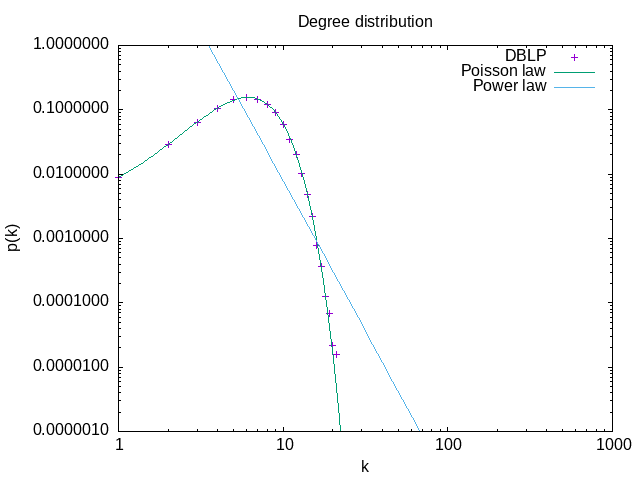
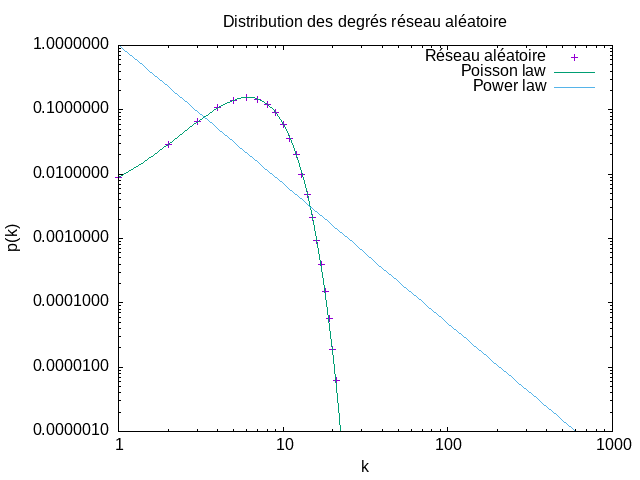
Corrections

Changed region(s): [[0.3438, 0.0312, 0.8125, 0.0625], [0.6562, 0.0938, 0.875, 0.125], [0.4688, 0.4375, 0.5, 0.4688]]

diff --git a/tp1_mesures/src/main/java/org/example/Mesures.java b/tp1_mesures/src/main/java/org/example/Mesures.java
@@ -1,6 +1,8 @@
 package org.example;
 
 import org.graphstream.algorithm.Toolkit;
+import org.graphstream.algorithm.generator.BarabasiAlbertGenerator;
+import org.graphstream.algorithm.generator.Generator;
 import org.graphstream.algorithm.generator.RandomGenerator;
 import org.graphstream.graph.BreadthFirstIterator;
 import org.graphstream.graph.Graph;
@@ -125,7 +127,7 @@ public class Mesures {
     public static void genBarabasiNetwork (int n, double avgDegree, String filename){
 
         Graph g = new SingleGraph("réseau Barabàsi-Albert");
-        RandomGenerator gen = new RandomGenerator(avgDegree);
+        Generator gen = new BarabasiAlbertGenerator((int) avgDegree);
         gen.addSink(g);
         gen.begin();
         for(int i=0; i<n; i++) {
@@ -199,7 +201,7 @@ public class Mesures {
 
 
         // Q3 Connexité
-        /*System.out.println("Question 3");
+        System.out.println("Question 3");
 
         // Le réseau est-il connexe
         if (Toolkit.isConnected(g))
@@ -224,7 +226,7 @@ public class Mesures {
         /// estimer distance moyenne
         String fileDistance = "tp1_mesures/data/distances.dat";
         System.out.println("Question 5\nDistance moyenne obtenue par echantillonage : " + avgDistance(g, fileDistance));
-*/
+
         // Q6
         // test des 3 méthodes ...
         // Réseau aléatoire

diff --git a/tp_propagation/src/main/java/org/example/Main.java b/tp_propagation/src/main/java/org/example/Main.java
@@ -60,7 +60,7 @@ public class Main {
 */
 
         //Q5 tests sur réseau aléatoire et Barabasi
-/*
+
         for (int i = 0; i<5; i++) {
             Graph gAlea1 = builtGraphAlea(filenameRand);
             scénario1(gAlea1, "tp_propagation/dataPropagation/aléatoire/alea_scenario1_"+i+".dat");
@@ -82,9 +82,9 @@ public class Main {
         System.out.println("Degré moyen du groupe 1: "+ aléaGetGroupesAvgDegree.get(1));
 
         System.out.println("Seuil épidémique du réseau modifié suite à l'immunisation séléctive: "+ aléaGetGroupesAvgDegree.get(2));
-*/
 
 
+/*
         for (int i = 0; i<5; i++) {
             Graph gBarabasi1 = builtGraphBarabasi(filenameBarabasi);
             scénario1(gBarabasi1, "tp_propagation/dataPropagation/barabasi/barabasi_scenario1_"+i+".dat");
@@ -108,7 +108,7 @@ public class Main {
 
         System.out.println("Seuil épidémique du réseau modifié suite à l'immunisation séléctive: "+ barabasiGetGroupesAvgDegree.get(2));
 
-
+*/
 
 
 

diff --git a/README.md b/README.md
@@ -17,6 +17,11 @@ Voir [`FileSourceEdge`](https://data.graphstream-project.org/api/gs-core/current
 Prenez quelques mesures de base : nombre de nœuds et de liens, degré moyen, coefficient de clustering. 
 Quel sera le coefficient de clustering pour un réseau aléatoire de la même taille et du même degré moyen ?
 
+#### Résultats des mesures
+
+- Degré moyen : 6.622
+- Coefficient de clustering : 0.632
+
 Le coefficient de clustering pour un nœud *i* dans un réseau aléatoire est donné par la formule
 $` C_{i} = \frac{\lt k\gt}{N}`$ 
 
@@ -34,7 +39,7 @@ Le réseau est-il connexe ? Un réseau aléatoire de la même taille et degré m
 La méthode `randIsConnexe` permettant de vérifier si la propriété citée précédemment est serait vérifiée
 si le réseau était aléatoire.
 
-- Un réseau aléatoire de même taille devient connexe si le degré moyen est supérieur à 12.666909386951092
+- Un réseau aléatoire de même taille devient connexe si le degré moyen est supérieur à 12.666
 
 
 
@@ -74,6 +79,7 @@ choisis au hasard. L'hypothèse des six degrés de séparation se confirme-t-ell
 réseau petit monde ? Quelle sera la distance moyenne dans un réseau aléatoire avec les mêmes caractéristiques ? 
 Tracez également la *distribution* des distances. 
 Formulez une hypothèse sur la loi de cette distribution.
+
 #### Tests sur le réseau réel
 J'ai fait plusieurs essais, la distance moyenne environne 6 à chaque fois, on peut donc dire que l'hypothèse
 des six degrés de séparation se confirme sur ce réseau.
@@ -82,9 +88,11 @@ pour notre réseau $` \frac{\ln \left( 317080 \right)} {\ln \left( 6.62208890914
 on peut ainsi déduire que ce réseau est un réseau petit-monde.
 
 J'ai choisi de représenter la distribution des distances à l'aide d'un histogramme, car cela m'a paru plus 
-parlant étant donné qu'on manipule des valeurs discrètes. 
+parlant étant donné qu'on manipule des valeurs discrètes.
+
 ##### Distribution des distances dans le réseau de collaboration
 ![distribution des distances](tp1_mesures/data/distanceHisto.png)
+
 La forme de cloche obtenue s'apparente à une loi de poisson.
 
 #### Pour un réseau aléatoire de même degré moyen
@@ -98,47 +106,73 @@ correspondent-ils aux prédictions théoriques ? Comparez avec le réseau de col
 Que peut-on conclure ?
 
 #### Réseau aléatoire
-- Nombre de noeuds 317087
+- Nombre de nœuds 317087
 - Nombre de liens 1050289
 - Coefficient de clustering 2.751E-5
 - Degré moyen 6.624
 - Le réseau n'est pas connexe
 - Distance moyenne dans le réseau : 6.899
 
-Les résultats obtenus sont trés proches des prédictions théoriques calculées plus haut. 
+Les résultats obtenus sont trés proches des prédictions théoriques 
+calculées plus haut. 
+
+##### Distribution des degrés
+![distribution des degrés dans réseau aléatoire log-log](tp1_mesures/data/degreeDistRan.png)
+![distribution des degrés dans réseau aléatoire lin](tp1_mesures/data/linAléadegree.png)
+
+
+
+Les résultats confirment bien ce qu'on a vu en cours, dans un réseau aléatoire la distribution des degrés suit une loi de poisson.
+
+##### Distribution des distances 
+![distribution des distances dans réseau aléatoire](tp1_mesures/data/distanceHistoAlea.png)
+
+
+
+
 
 #### Réseau par la méthode d'attachement préférentiel Barabasi-Albert
-- Nombre de noeuds 317087
-- Nombre de liens 1050310
-- Coefficient de clustering 2.419E-5
+- Nombre de nœuds 317082
+- Nombre de liens 1109289
+- Coefficient de clustering 3.885E-4
 - Degré moyen 6.624
-- Le réseau n'est pas connexe
-- Distance moyenne dans le réseau : 6.889
+- Le réseau est connexe
+- Distance moyenne dans le réseau : 5.062
+
+
+##### Distribution des degrés
+![distribution des degrés dans réseau barabasi log-log](tp1_mesures/data/degreeDistBarabasi.png)
+![distribution des degrés dans réseau barabasi lin](tp1_mesures/data/linBarabasidegree.png)
+
+La distribution correspond bien aux prédictions théoriques, elle suit une loi puissance avec une 
+
+##### Distribution des distances
+![distribution des distances dans réseau barabasi](tp1_mesures/data/distanceHistoBarabasi.png)
+
 
 
 En théorie, la distance moyenne dans le réseau suivant le modèle de Barabasi-Albert serait égale à 4,988 et
-devrait être inférieure à celle d'un réseau aléatoire avec les mêmes caractéristiques, les résultats de nos 
+devrait être inférieure à celle d'un réseau aléatoire avec les mêmes caractéristiques en raison des hubs présents et qui réduisent les distances entre les nœuds, les résultats de nos 
 tests montrent une légère différence.
-Le coefficient de clustering est lui estimé théoriquement à 0,0005 ce qui est supérieur à ce qu'on trouve
-en pratique.
+Le coefficient de clustering est lui estimé théoriquement à 0,0005 et c'est du même ordre des résultats obtenus en pratique.
 
 Si on compare avec les mesures du réseau réel, on remarque qu'on retrouve les propriétés vu en cours les réseaux réels ont un coefficient de clustering relativement élevé.
 
 
-# Propagation dans les réseaux d'interaction
+# Propagation dans les réseaux d'interactions
 
 ### Question 1
-- Taux de propagation dans le réseau étudié $`\lambda = 2.142857142857143`$ 
+- Taux de propagation dans le réseau étudié $`\lambda = 2.142`$ 
 
 - Seuil épidémique :
         
   La formule permettant de le trouver est la suivante : $`\lambda_{c} = \frac{\lt k\gt }{\lt k^{2}\gt }`$
-  On obtient alors pour notre réseau réel : $`\lambda_{c} = 0.04598472436222584`$
+  On obtient alors pour notre réseau réel : $`\lambda_{c} = 0.045`$
 
 - Seuil épidémique théorique pour un réseau aléatoire de même degré moyen :
   $`\lambda_{c}  = \frac{1}{\lt k\gt +1}`$
   
-  $`\lambda_{c}  = 0.13119762993051035`$
+  $`\lambda_{c}  = 0.131`$
   
 Dans notre réseau réel, le seuil épidémique est nettement inférieur au seuil théorique calculé pour un 
 réseau aléatoire, de même degré moyen. Cela indique que le réseau réel est plus vulnérable à la propagation
@@ -146,6 +180,7 @@ de virus que le réseau aléatoire, cela s'explique par l'existence de hubs (qui
   
 ### Question 2
 ##### Évolution de la fraction d'inféctés de la population non immunisée pour les trois scénarios
+
 ![fraction d'inféctés réseau réel](tp_propagation/dataPropagation/scenario123.png)
 
 - **Scénario 1 :** c'est vraisemblablement le pire, comme on pouvait s'en douter. La propagation du virus est rapide et il touche un nombre considérable d'individus.
@@ -176,32 +211,46 @@ la propagation du virus n'est pas ralentie.
 
 ### Question 5
 
-#### Comparaisons
+#### Réseau Aléatoire
+- Degré moyen du groupe 0 : 6.630
+- Degré moyen du groupe 1 : 7.628
+- Seuil épidémique du réseau modifié suite à l'immunisation aléatoire : 0.131
+- Seuil épidémique du réseau modifié suite à l'immunisation séléctive : 0.139
+
+
+#### Réseau Barabasi-Albert
+- Degré moyen du groupe 0 : 7.005
+- Degré moyen du groupe 1 : 37.139
+- Seuil épidémique du réseau modifié suite à l'immunisation aléatoire : 0.034
+- Seuil épidémique du réseau modifié suite à l'immunisation séléctive : 0.135
+
+
+#### Comparaison des trois réseaux
 
 ##### Scénario 1
 ![comparaison scenario1](tp_propagation/dataPropagation/S1/comp_scenario1.png)
 
 Le nombre d'inféctés atteint un nombre de grandeur similaire pour 
 chacun des réseaux, on remarque cependant une propagation plus rapide 
-dans le réseau de collaboration. 
-Les courbes du réseau aléatoire et réseau Barabasi-Albert évoluent de
-la même manière.
-
+dans le réseau de collaboration et le réseau suivant la méthode 
+d'attachement préférentiel, surement en raison de la présence de hubs. 
 
 ##### Scénario 2
 ![comparaison scenario2](tp_propagation/dataPropagation/S2/comp_scenario2.png)
 
 Le nombre d'inféctés est moins important que lors du scénario 1,
-la propagation est toujours plus lente du côté du réseau aléatoire 
-et celui de Barabasi-Albert, mais le nombre d'infécté est supérieur 
-pour ces deux réseaux que dans le réseau de collaboration. 
+la propagation est toujours plus lente du côté du réseau aléatoire, 
+on retrouve ensuite le réseau de collaboration suivit de près par le réseau Barabasi-Albert.
 
 ##### Scénario 3
 ![comparaison scenario3](tp_propagation/dataPropagation/S3/comp_scenario3.png)
 
-Nous pouvons enfin observer une légère différence entre le réseau 
-aléatoire et le réseau de Barabasi-Albert dans la vitesse de 
-propagation. 
+le réseau de Barabasi-Albert enfin une différence plus prononcée dans la vitesse de 
+propagation.
 L'écart avec le nombre maximal d'inféctés dans le réseau de 
-collaboration se creuse d'autant plus, il y en a environ trois fois 
+collaboration se creuse d'autant plus, il y en a environ deux à trois fois 
 plus dans les deux autres réseaux.
+
+
+On remarque que le réseau aléatoire présente un nombre d'inféctés supérieur aux autres dans tous les scénarios.
+
